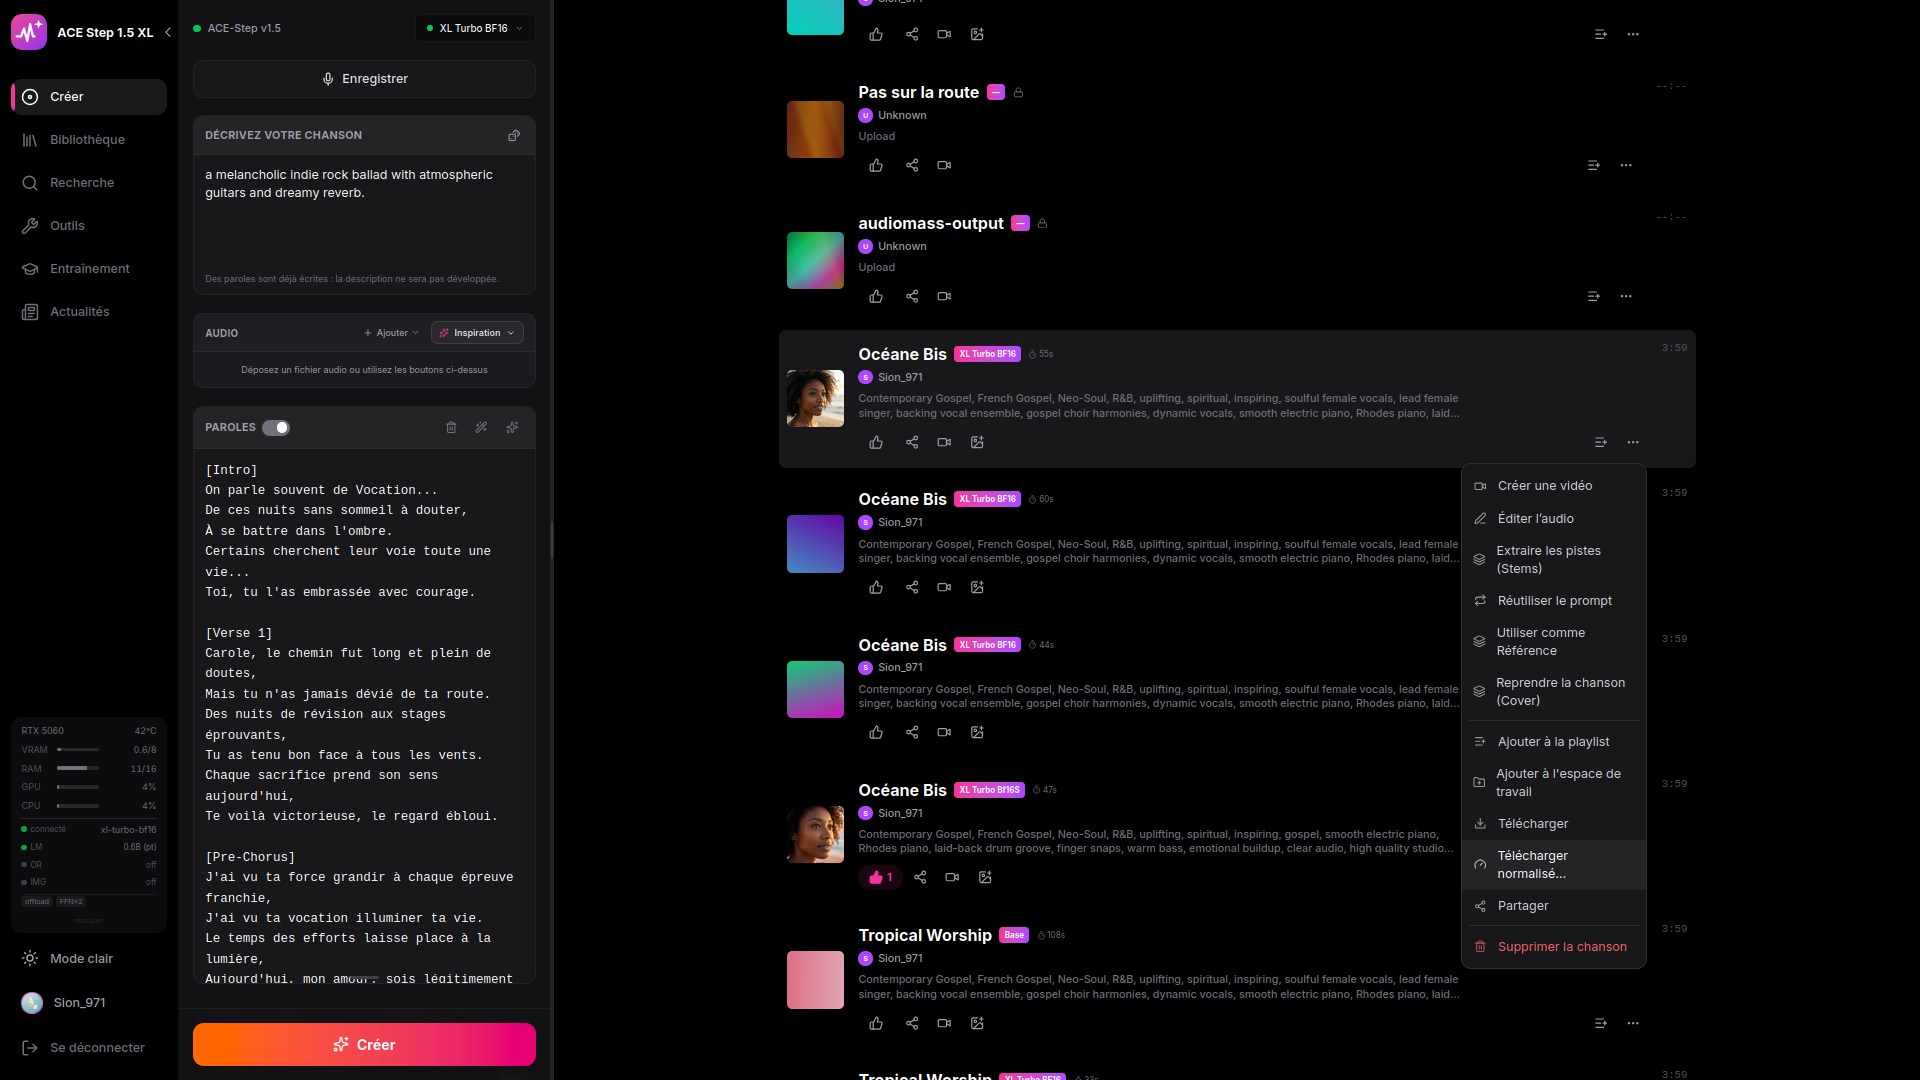
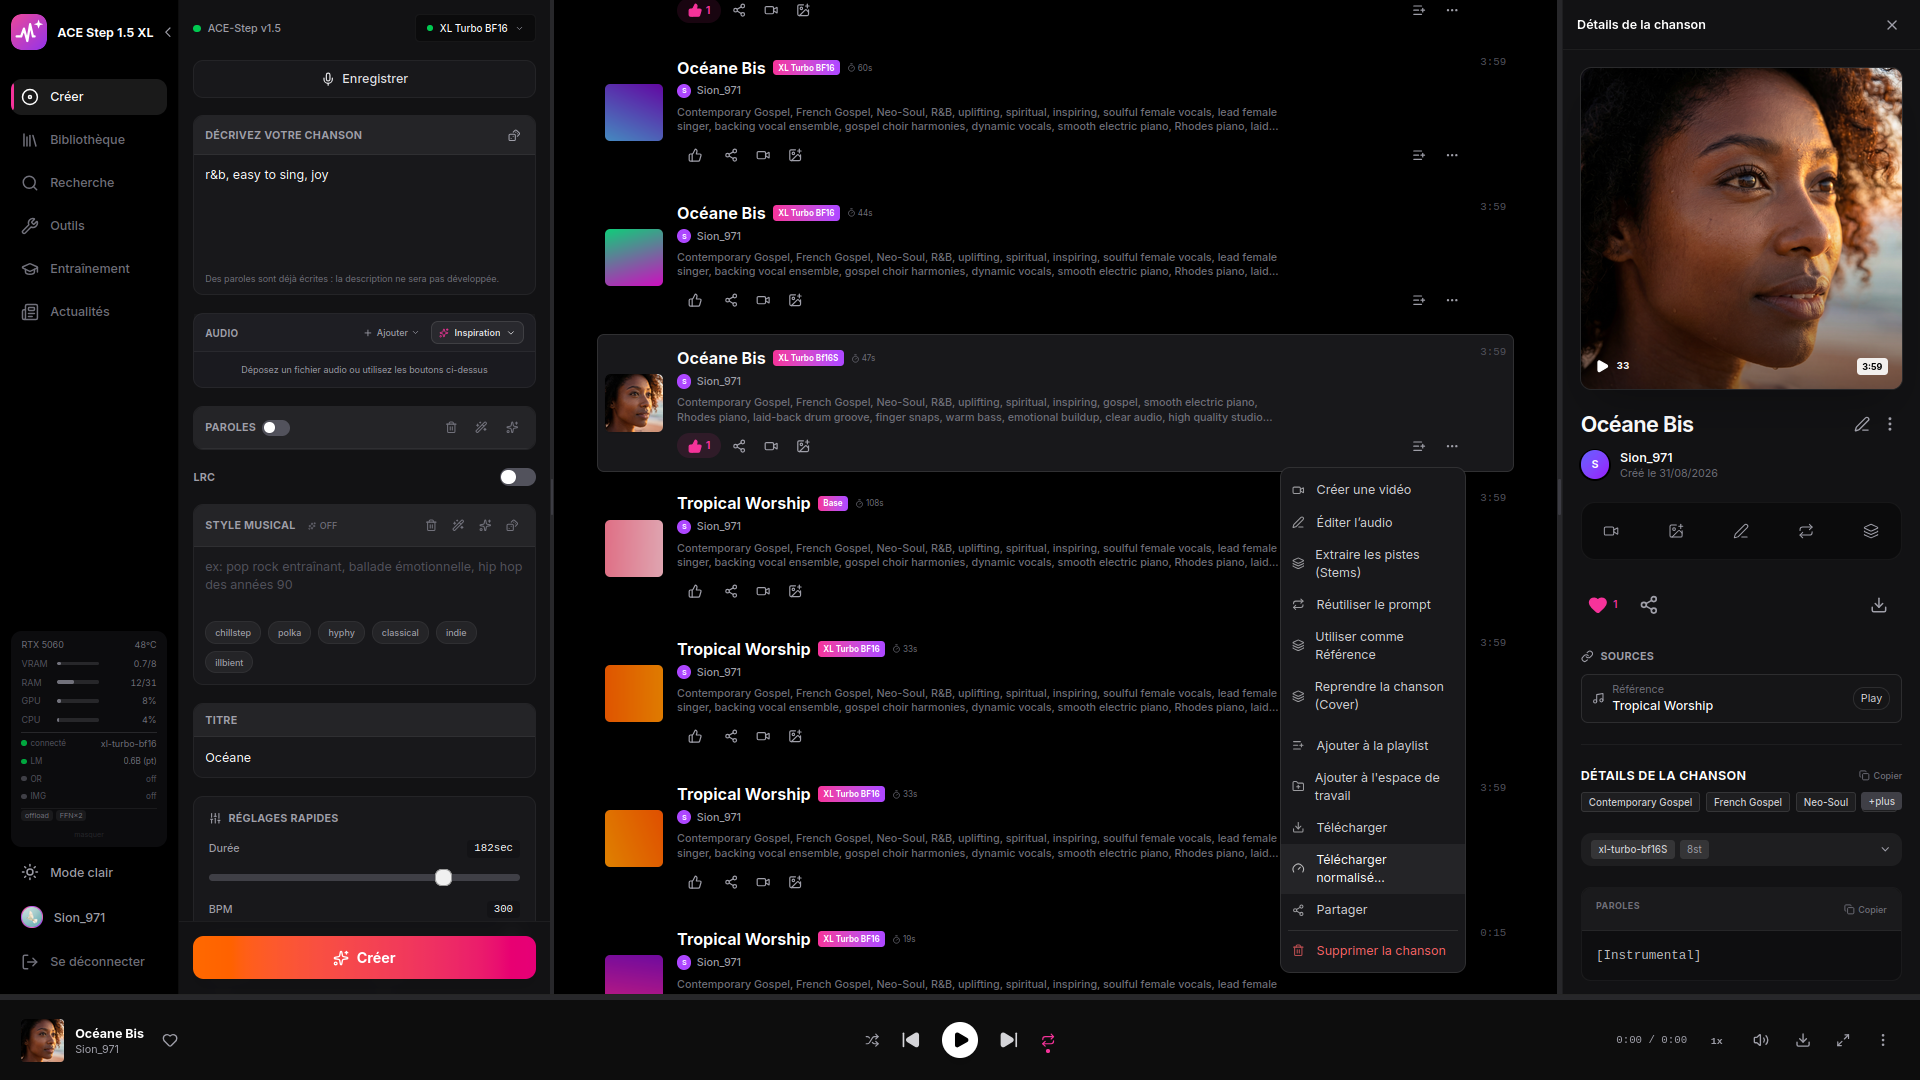
README : galerie « Stems, MIDI and loudness » ; captures du menu et de la normalisation refaites
Claude-Session: https://claude.ai/code/session_01B5iPA9vTox3QMnqfEgR6vu

diff --git a/README.md b/README.md
@@ -61,7 +61,36 @@ Both platforms share the same underlying approach: a single [`uv`](https://githu
 </p>
 
 <p align="center">
-  <em>All four Demucs stems, opened together as separate tracks in the AudioMass editor.</em>
+  <em>All six Demucs stems, opened together as separate tracks in the AudioMass editor.</em>
+</p>
+
+### Stems, MIDI and loudness
+
+<table>
+  <tr>
+    <td width="50%"><img src="app/docs/screenshots/05-stems-choice.png" alt="Choosing 4 or 6 stems"></td>
+    <td width="50%"><img src="app/docs/screenshots/06-midi-piano-roll.png" alt="MIDI piano roll"></td>
+  </tr>
+  <tr>
+    <td align="center"><em>Separate a song into 4 stems, or 6 with guitar and piano</em></td>
+    <td align="center"><em>Piano roll with synthesizer playback, and a .mid download</em></td>
+  </tr>
+  <tr>
+    <td width="50%"><img src="app/docs/screenshots/07-song-menu.png" alt="Song menu"></td>
+    <td width="50%"><img src="app/docs/screenshots/08-loudness-target.png" alt="Loudness target"></td>
+  </tr>
+  <tr>
+    <td align="center"><em>Stems and normalized download, one click from any song</em></td>
+    <td align="center"><em>Pick a streaming platform's LUFS target, or your own</em></td>
+  </tr>
+</table>
+
+<p align="center">
+  <img src="app/docs/screenshots/09-loudness-compare.png" alt="Loudness before and after" width="400">
+</p>
+
+<p align="center">
+  <em>Listen to the original and the normalized version before downloading.</em>
 </p>
 
 ---
